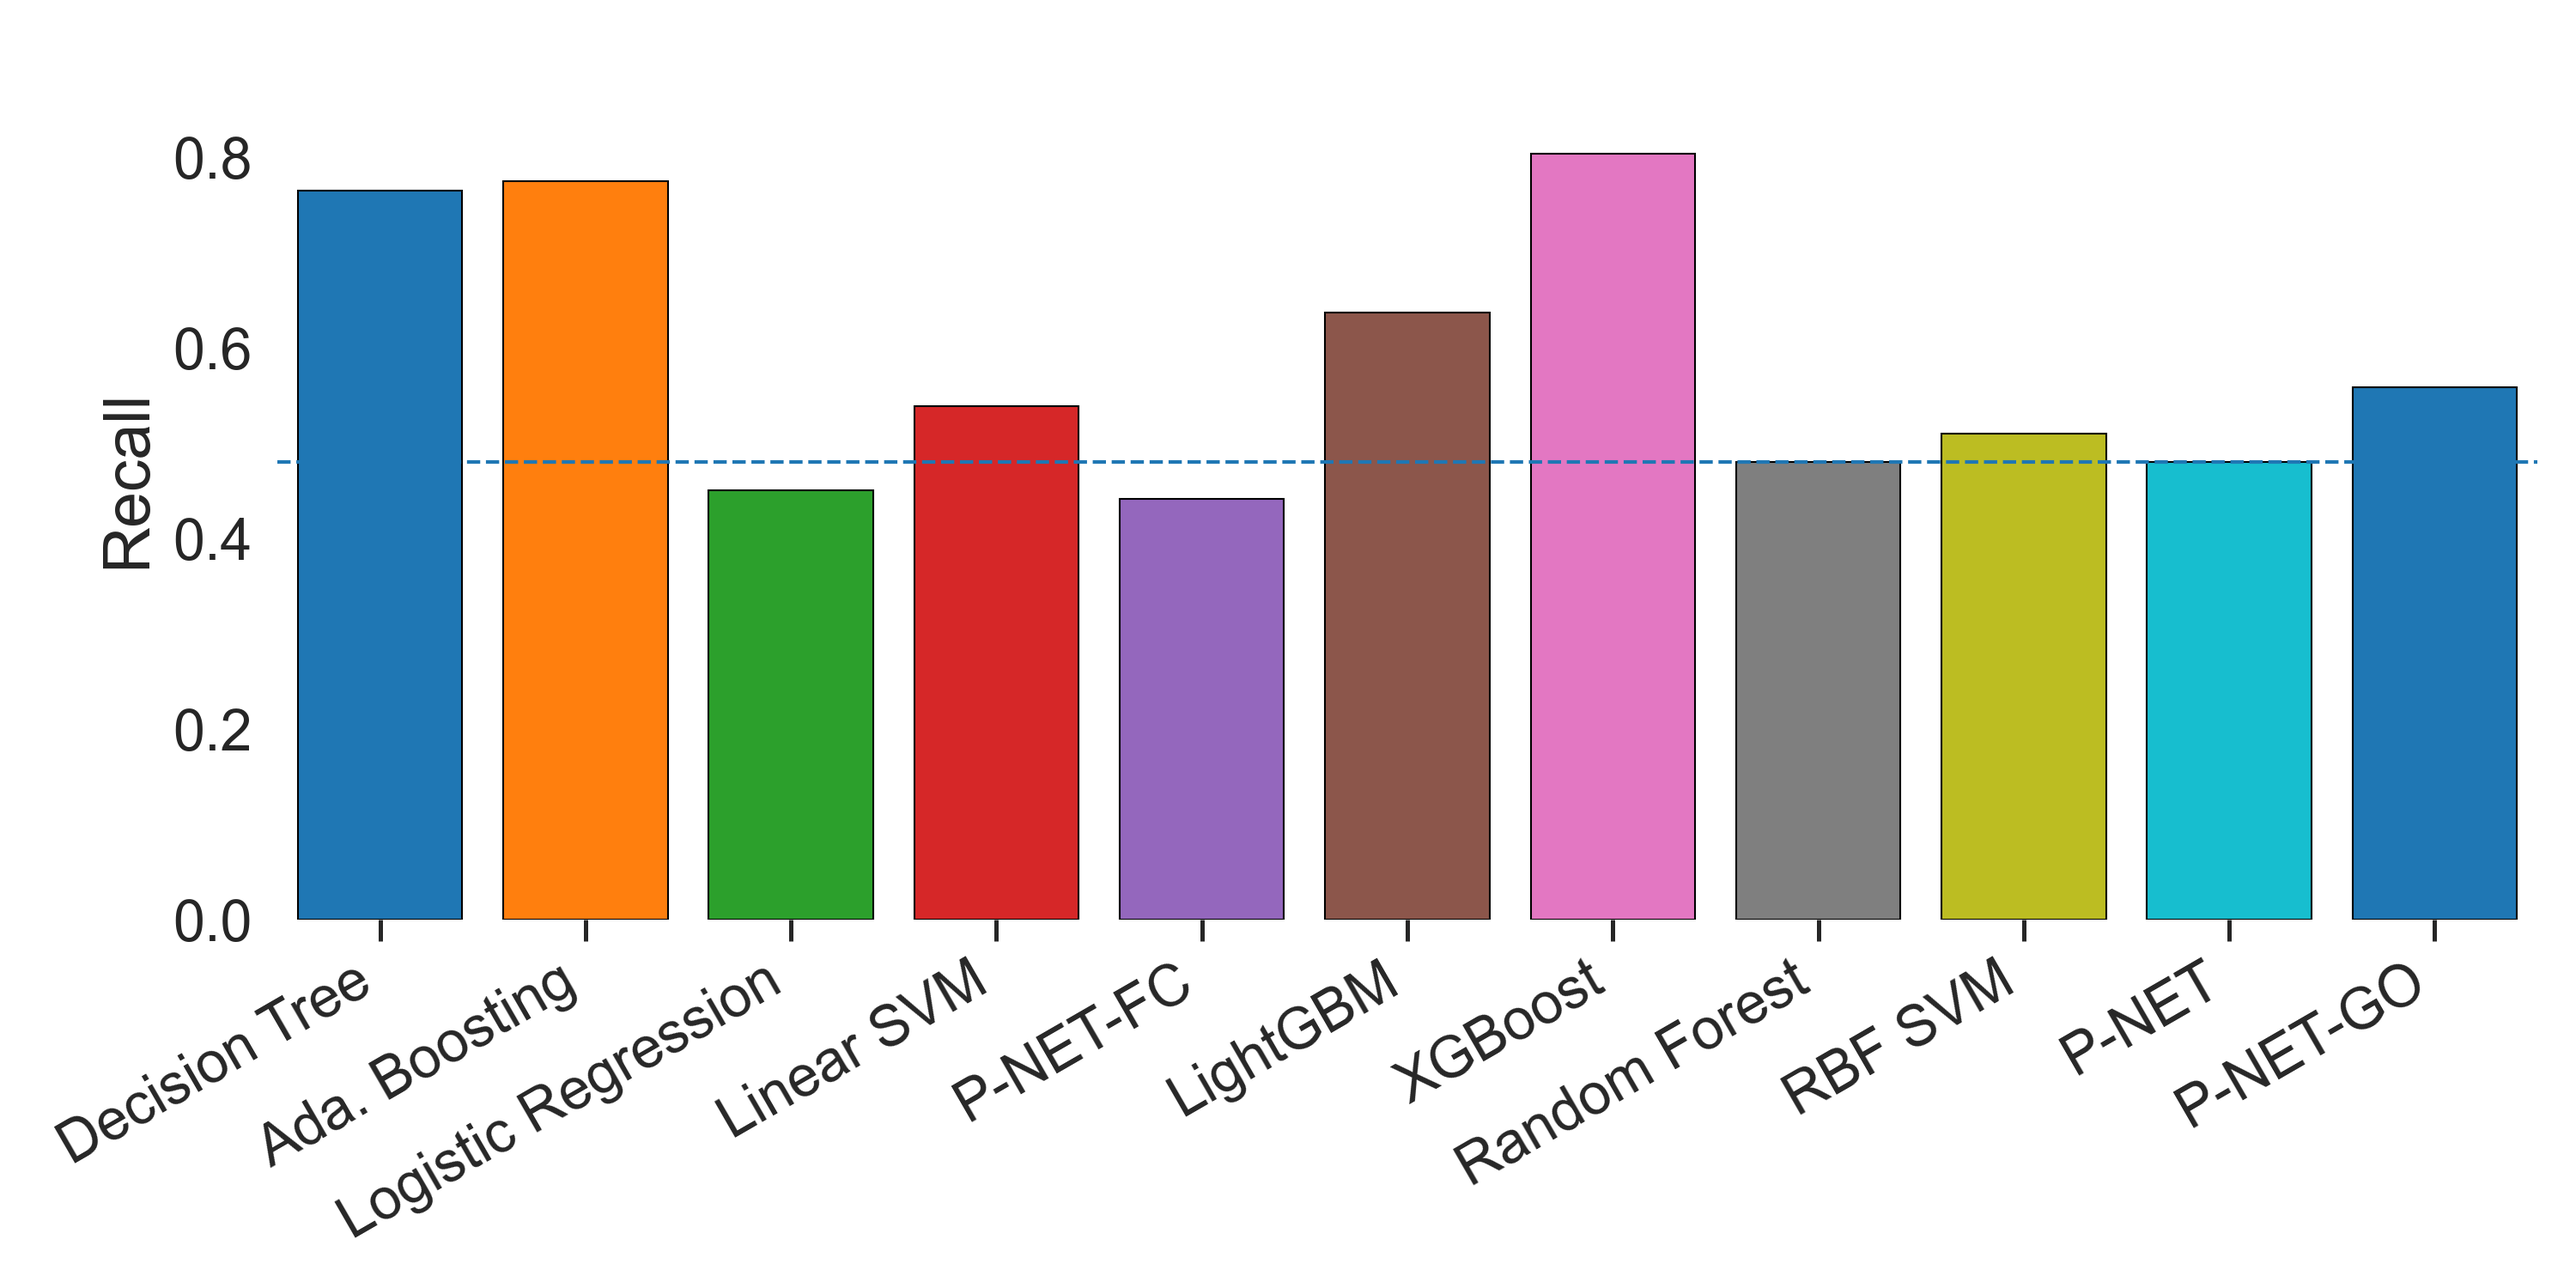
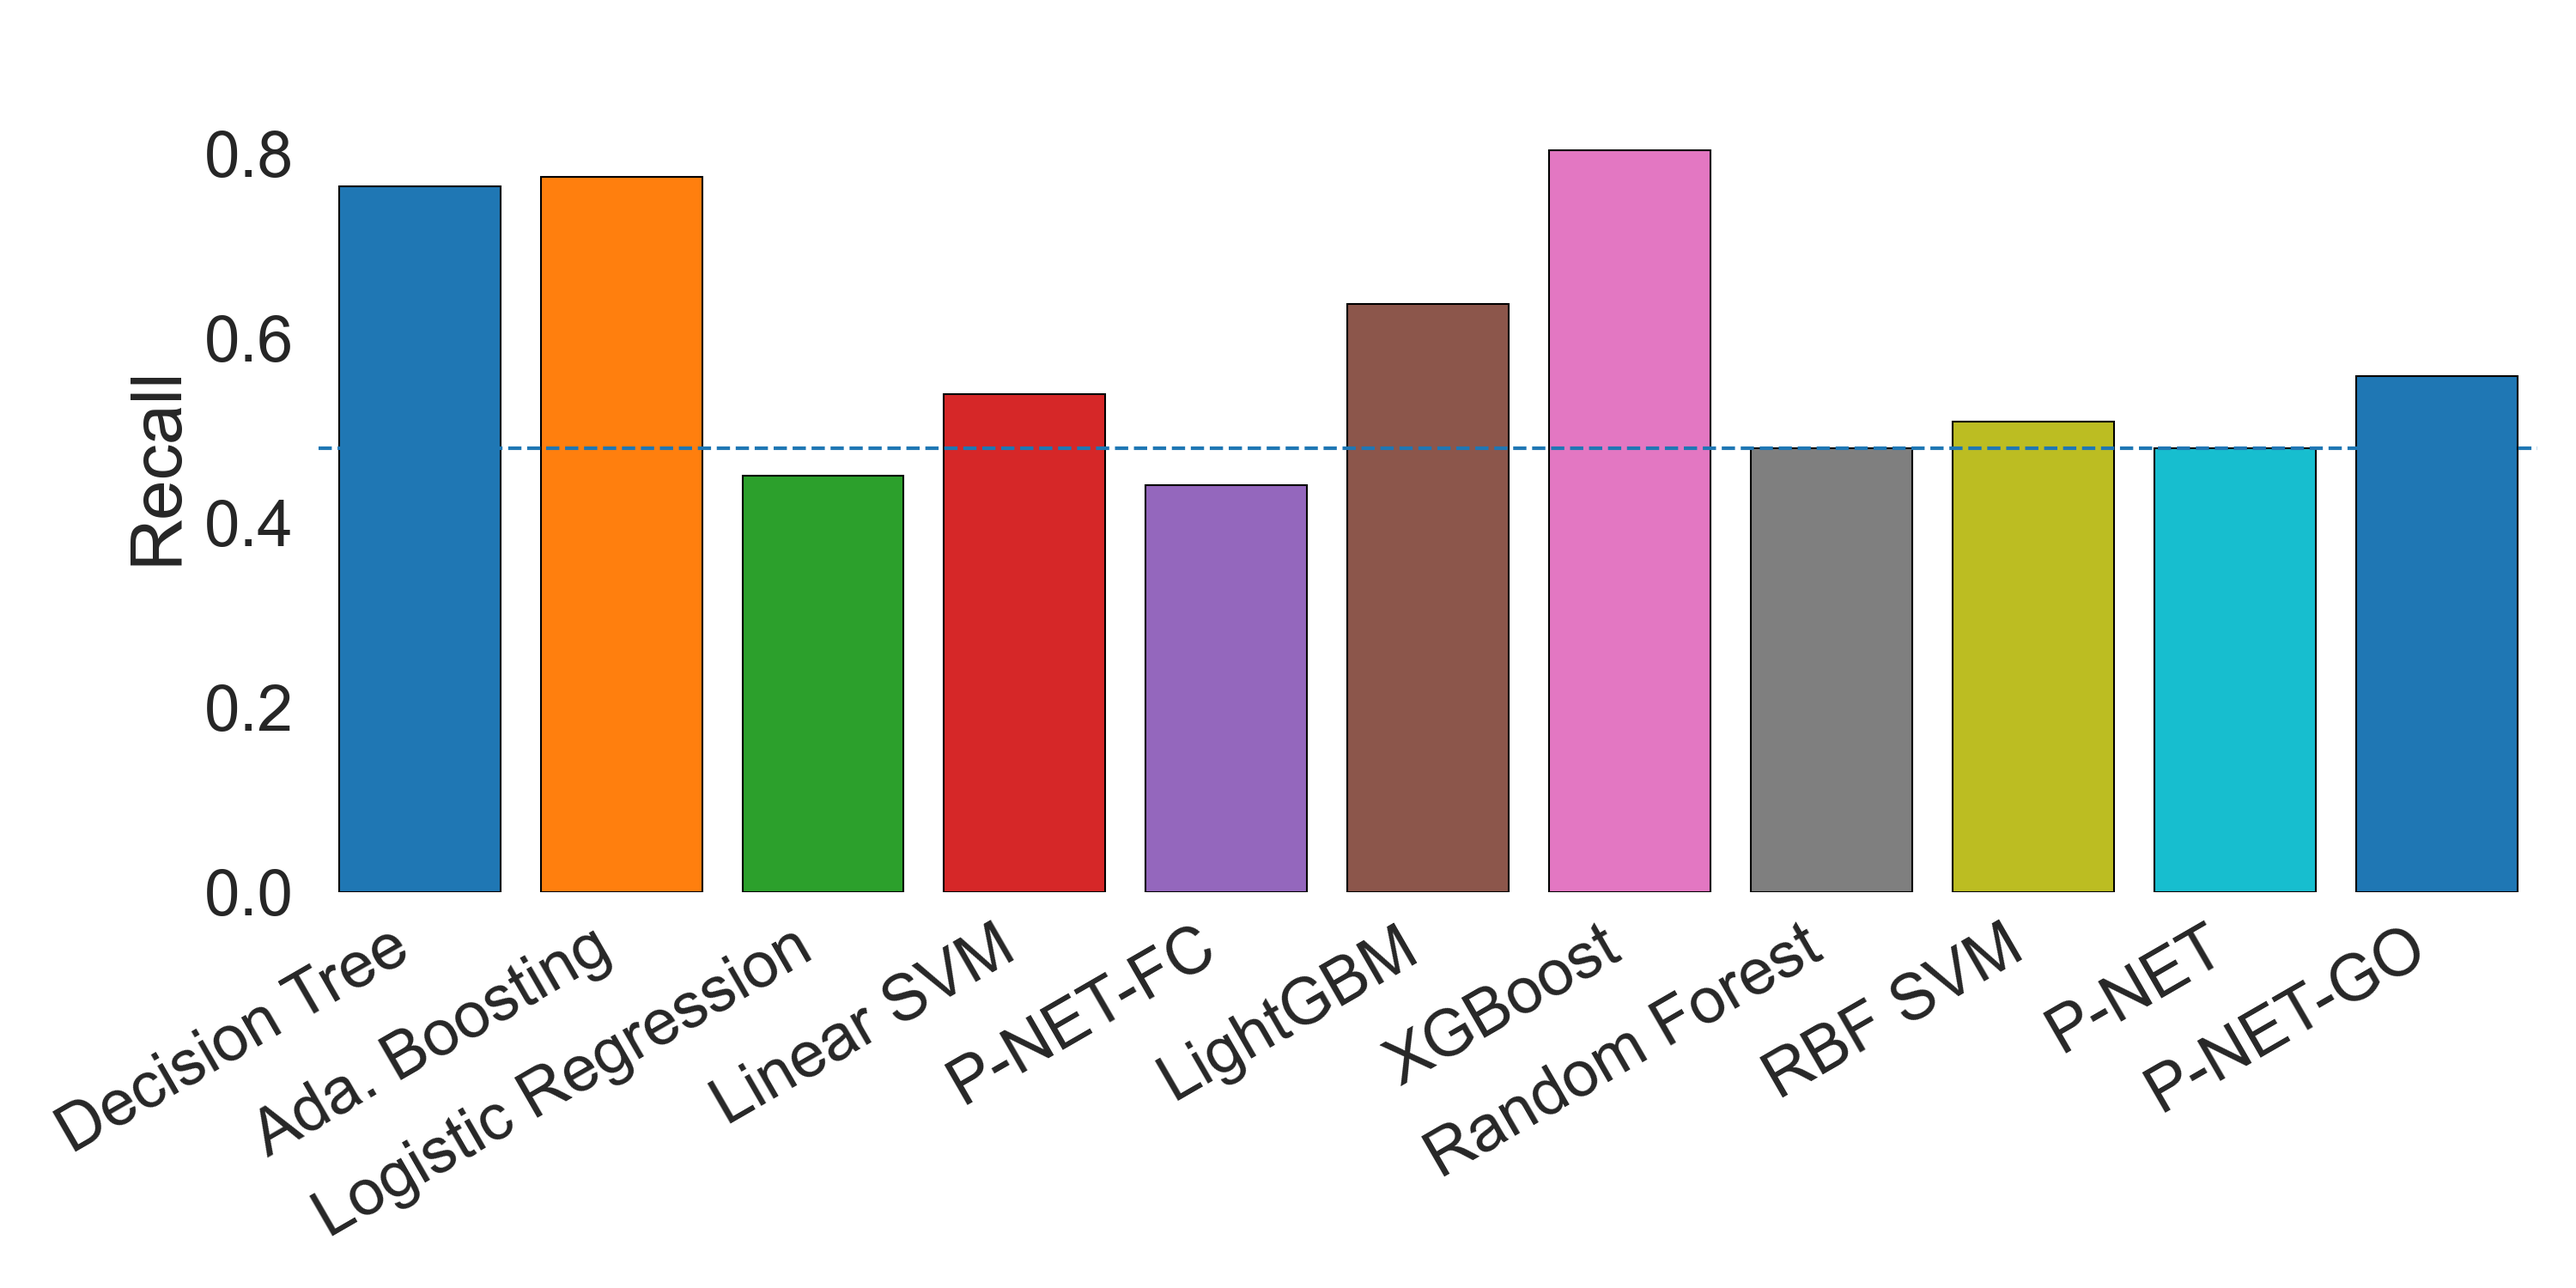
glioma prediction: plotting; significance testing

Changed region(s): [[0.0, 0.092, 0.992, 0.9813], [0.899, 0.276, 0.992, 0.3067]]

diff --git a/glioma_prediction/plotting/plot_nested_cv.py b/glioma_prediction/plotting/plot_nested_cv.py
@@ -52,8 +52,8 @@ def plot_nested_CV(run_dir, figures_dir, selection_metric="auc"):
     current_palette = sns.color_palette(None, len(paper_model_order))
     my_pal = {m: current_palette[i] for i, m in enumerate(paper_model_order)}
 
-    fontsize = 16
-    fontproperties = {"family": "Arial", "weight": "normal", "size": 18}
+    fontsize = 18
+    fontproperties = {"family": "Arial", "weight": "normal", "size": 20}
     metric_cols = ["auc", "auprc", "f1", "accuracy", "precision", "recall"]
 
     all_data = []
@@ -143,7 +143,6 @@ def plot_nested_CV(run_dir, figures_dir, selection_metric="auc"):
         ax.set_xticklabels(ax.get_xticklabels(), rotation=30, horizontalalignment="right", fontsize=fontsize)
         ax.get_xaxis().set_minor_locator(ticker.AutoMinorLocator())
         ax.tick_params(axis="both", which="major", labelsize=fontsize)
-        ax.tick_params(axis="x", which="major", length=6, width=1.2, bottom=True)
         ax.minorticks_off()
         ax.spines["top"].set_visible(False)
         ax.spines["right"].set_visible(False)

diff --git a/glioma_prediction/plotting/plot_external_validation.py b/glioma_prediction/plotting/plot_external_validation.py
@@ -52,8 +52,8 @@ def plot_external_validation(run_dir, figures_dir, dataset_tag="cgga"):
     current_palette = sns.color_palette(None, len(paper_model_order))
     my_pal = {m: current_palette[i] for i, m in enumerate(paper_model_order)}
 
-    fontsize = 16
-    fontproperties = {"family": "Arial", "weight": "normal", "size": 18}
+    fontsize = 18
+    fontproperties = {"family": "Arial", "weight": "normal", "size": 20}
     metric_cols = ["auc", "auprc", "f1", "accuracy", "precision", "recall"]
 
     # Load the single external validation score for each model
@@ -91,7 +91,6 @@ def plot_external_validation(run_dir, figures_dir, dataset_tag="cgga"):
         ax.set_xlabel("")
         ax.get_xaxis().set_minor_locator(ticker.AutoMinorLocator())
         ax.tick_params(axis="both", which="major", labelsize=fontsize)
-        ax.tick_params(axis="x", which="major", length=6, width=1.2, bottom=True)
         ax.minorticks_off()
         ax.spines["top"].set_visible(False)
         ax.spines["right"].set_visible(False)
